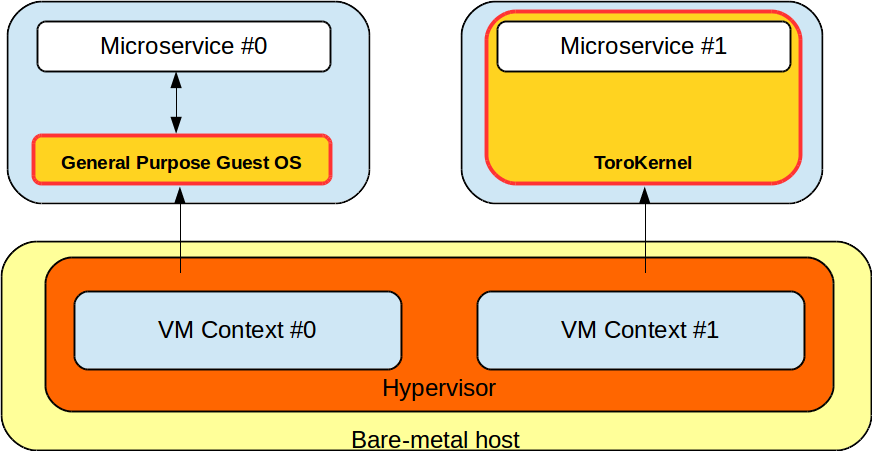
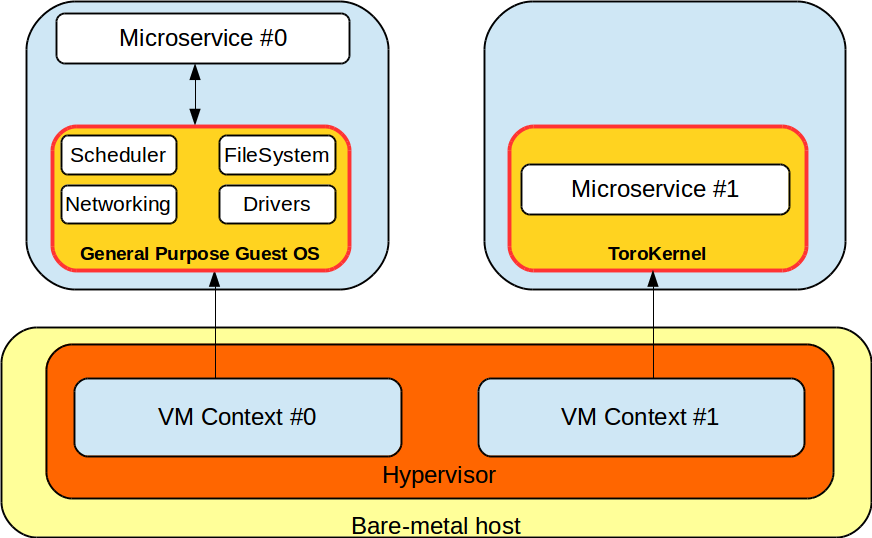
Fix images and content

diff --git a/index.html b/index.html
@@ -35,6 +35,9 @@
             <a class="nav-link" href="http://torokerneleng.blogspot.com/">Blog</a>
           </li>
           <li class="nav-item">
+            <a class="nav-link" href="https://twitter.com/torokernel/">Twitter</a>
+          </li>
+          <li class="nav-item">
             <a class="nav-link" href="https://github.com/torokernel/torokernel/wiki">Wiki</a>
           </li>
         </ul>
@@ -100,12 +103,12 @@
       <div class="col-md-8 mb-5">
         <h2>What is?</h2>
         <hr>
-        <p>Toro is a simple kernel that provides a dedicated API to develop microservices. We propose two kinds of sockets to build microservices: blocking and non-blocking. Blocking sockets are good for intensive-IO microservices whereas Non-blocking sockets are good for microservices that can answer a request without blocking. When a microservice executes in Toro, it runs alone in the system thus leveraging on the VM's resources.</p>
+        <p>Toro is a simple kernel that provides a dedicated API to develop microservices. We propose two kinds of sockets to build microservices: blocking and non-blocking. Blocking sockets are good for intensive-IO microservices whereas non-blocking sockets are good for microservices that can serve a request without blocking. When a microservice executes in Toro, it runs alone in the system thus leveraging on the VM's resources.</p>
       </div>
       <div class="col-md-4 mb-5">
         <div class="card h-100">
           <div class="card-body">
-		<a href="./images/toroandmicro.png"><img class="card-img-top" src="./images/toroandgpos.png" alt=""></a>
+		<a href="./images/toroandgpos.png"><img class="card-img-top" src="./images/toroandgpos.png" alt=""></a>
           </div>
         </div>
       </div>
@@ -116,12 +119,12 @@
       <div class="col-md-8 mb-5">
         <h2>How works?</h2>
         <hr>
-        <p>Toro is a set of libraries that compile within the user application, i.e., the microservice. During development, the user can choose which component should be includes, .e.g, drivers, filesystems, etc. This results in a binary that can run on top of modern hypervisors like KVM, Xen or VirtualBox. Once the kernel has been initialized, the microservice starts to execute. The microservice and the kernel execute at the most privileged level and share the memory space, i.e., flat memory model. In this sense, Toro only supports threads and does not use paging.</p>
+        <p>Toro is a set of libraries that compile within the user application, i.e., the microservice. The user can choose which components should be included, .e.g, drivers, filesystems, etc. This results in a binary that can run on top of modern hypervisors like KVM, Xen or VirtualBox. Once the kernel has been initialized, the microservice starts to execute. The microservice and the kernel execute at the most privileged level and share the memory space, i.e., flat memory model. In this sense, Toro only supports threads and does not use paging.</p>
       </div>
       <div class="col-md-4 mb-5">
        <div class="card h-100">
           <div class="card-body">
-       <a href="./images/toroandmicro.png"><img class="card-img-top" src="./images/toroandmicro.png" alt=""></a>
+       <a href="./images/apporikernel.png"><img class="card-img-top" src="./images/apporikernel.png" alt=""></a>
           </div>
         </div>
       </div>
@@ -132,7 +135,7 @@
       <div class="col-md-8 mb-5">
         <h2>Supported Hypervisors</h2>
               <hr>
-      <p>Toro is able to run both baremetal and as a guest. Currently, Toro has been successfully tested on Qemu-KVM, Xen, VirtualBox and HyperV. Recently, Toro has been tested on Firecraker and NEMU. These solutions propose an optimized Virtual Machine Monitor (VMM) that simplifies the device model among other features.</p>
+      <p>Toro is able to run as a guest or baremetal. Currently, it  has been successfully tested on Qemu-KVM, Xen, VirtualBox and HyperV. Recently, Toro has been tested on Firecraker and NEMU. These solutions propose an optimized Virtual Machine Monitor (VMM) that simplifies the device model among other features.</p>
       </div>
     </div>
 
@@ -186,9 +189,9 @@
 
     <div class="row">
       <div class="col-md-8 mb-5">
-        <h2>How to Contribute</h2>
+        <h2>How contributes?</h2>
               <hr>
-      <p>We are always keen to hear about improvements and bugs. To report an issue, please follow <a href="https://github.com/torokernel/torokernel/wiki/How-to-Contribute">this</a> guideline. If you want to help in the development, you can pick up any of the issues from <a href="https://github.com/torokernel/torokernel/issues">here</a>. If you do not know what to pick, do not hesitate to ask! tickets labeled as help wanted may be a good start.</p>
+      <p>We are always looking forward for improvements and fixes. To report an issue, please follow <a href="https://github.com/torokernel/torokernel/wiki/How-to-Contribute">this</a> guideline. If you want to help in the development, you can pick up any of the issues from <a href="https://github.com/torokernel/torokernel/issues">here</a>. If you do not know what to pick, do not hesitate to ask! tickets labeled as help wanted may be a good start.</p>
       </div>
     </div>
 
